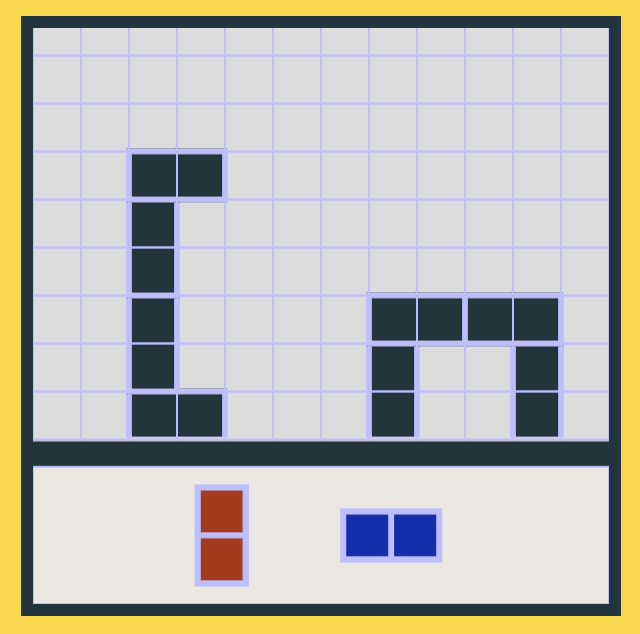
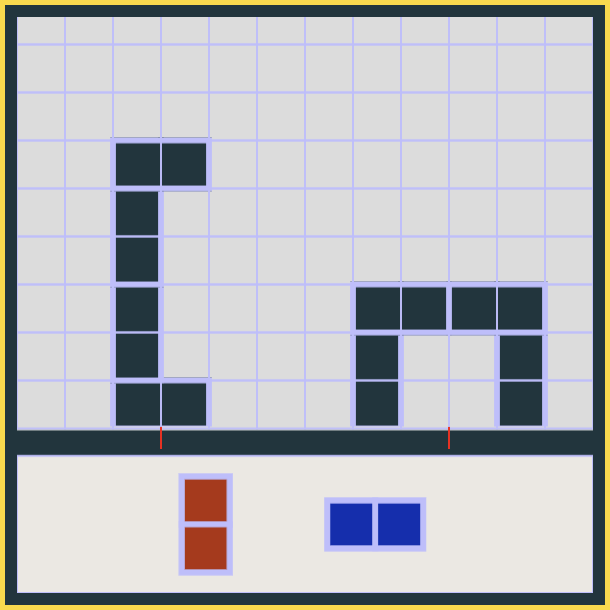
option to take out refering expression listing

Changed region(s): [[0.0, 0.0, 0.9967, 0.9967], [0.5295, 0.7787, 0.7164, 0.9033]]

diff --git a/behavioral_experiments/referring_expressions/js/jspsych-ca-label-ref-exp.js b/behavioral_experiments/referring_expressions/js/jspsych-ca-label-ref-exp.js
@@ -55,11 +55,17 @@ jsPsych.plugins["ca-label-ref-exp"] = (function () {
       messages: {
         type: jsPsych.plugins.parameterType.OBJECT,
         default: [],
+      },
+      collectRefExps: {
+        type: jsPsych.plugins.parameterType.BOOL,
+        default: false,
       }
     },
   };
 
   plugin.trial = function (display_element, trial) {
+
+    let flagged = false;
 
     window.currTrialNum += 1;
 
@@ -69,7 +75,11 @@ jsPsych.plugins["ca-label-ref-exp"] = (function () {
 
     var html_content = "";
 
-    html_content += '<p id="instruction"> For each message: </br>1) list all of the referring expressions (separated by commas) </br>2) count how many blocks (<img src = "../img/icons/block.png" class="ref-icon ref-icon-inline ref-icon-block">), towers (<img src = "../img/icons/tower.png" class="ref-icon ref-icon-inline">), and scenes (<img src = "../img/icons/scene.png" class="ref-icon ref-icon-inline">) are referred to</p>';
+    if(trial.collectRefExps){
+      html_content += '<p id="instruction"> For each message: </br>1) list all of the referring expressions (separated by commas) </br>2) count how many blocks (<img src = "../img/icons/block.png" class="ref-icon ref-icon-inline ref-icon-block">), towers (<img src = "../img/icons/tower.png" class="ref-icon ref-icon-inline">), and scenes (<img src = "../img/icons/scene.png" class="ref-icon ref-icon-inline">) are referred to</p>';
+    } else {
+      html_content += '<p id="instruction"> For each message, count the number of expressions referring to (<img src = "../img/icons/block.png" class="ref-icon ref-icon-inline ref-icon-block">), towers (<img src = "../img/icons/tower.png" class="ref-icon ref-icon-inline">), and scenes (<img src = "../img/icons/scene.png" class="ref-icon ref-icon-inline">).</p>';
+    };
     html_content += '<div class="row pt-1 env-row" id="ref-exp-env-row">';
     html_content += '<div class="col env-div stim-no-resize" id="stimulus-canvas"></div>';
     html_content += '<div class="col env-div" id="message-column">';
@@ -80,8 +90,9 @@ jsPsych.plugins["ca-label-ref-exp"] = (function () {
     html_content += '</div>';
     html_content += '</div>';
     html_content += '<div class="row pt-1" id="button-row">';
-    html_content += '<h5 id="trial-counter-center">Instructions '  + window.currTrialNum + ' of ' + window.totalTrials + '</h5>';
+    html_content += '<h5 id="trial-counter-center">'  + window.currTrialNum + ' of ' + window.totalTrials + '</h5>';
     html_content += '<button id="next-button" type="button" class="btn btn-primary">Next</button>';
+    html_content += '<button id="flag-button" type="button" class="btn btn-danger mr-3">Flag</button>';
     html_content += '</div>';
     html_content += '</div>';
 
@@ -133,30 +144,32 @@ jsPsych.plugins["ca-label-ref-exp"] = (function () {
       messageDiv.setAttribute("id", "message-" + i.toString());
       messageDiv.setAttribute("class", "col message-text-div");
 
-      // refExpDiv = document.createElement("div");
-      // refExpDiv.setAttribute("id", "ref-exps-div-" + i.toString());
-      // refExpDiv.setAttribute("class", "ref-exp-text-div");
-      refExpText = document.createElement("input");
-      refExpText.setAttribute("class", "ref-exp-input");
-      refExpText.setAttribute("autocomplete","off");
-      refExpText.setAttribute("type", "text");
-      refExpText.setAttribute("id", "ref-exps-list-" + i.toString());
-      refExpText.setAttribute("class", "ref-exp-list");
-      refExpText.setAttribute("cols", "50");
-      refExpText.setAttribute("size", "30");
-      refExpText.setAttribute("placeholder", "type referring expressions or highlight and press Return");
-      refExpText.appendChild(document.createTextNode(""));
+      if (trial.collectRefExps) {
+        // refExpDiv = document.createElement("div");
+        // refExpDiv.setAttribute("id", "ref-exps-div-" + i.toString());
+        // refExpDiv.setAttribute("class", "ref-exp-text-div");
+        refExpText = document.createElement("input");
+        refExpText.setAttribute("class", "ref-exp-input");
+        refExpText.setAttribute("autocomplete","off");
+        refExpText.setAttribute("type", "text");
+        refExpText.setAttribute("id", "ref-exps-list-" + i.toString());
+        refExpText.setAttribute("class", "ref-exp-list");
+        refExpText.setAttribute("cols", "50");
+        refExpText.setAttribute("size", "30");
+        refExpText.setAttribute("placeholder", "type referring expressions or highlight and press Return");
+        refExpText.appendChild(document.createTextNode(""));
+      };
 
       messageP = document.createElement("p");
       messageP.setAttribute("class", "message");
       messageP.appendChild(document.createTextNode(message));
       
       messageDiv.appendChild(messageP);
-      messageDiv.appendChild(refExpText);
+      if (trial.collectRefExps) {messageDiv.appendChild(refExpText)};
       messageRow.appendChild(messageDiv);
 
       trial.levels.forEach(level => {
-        newInput = createInput(level, i, cols=2);
+        newInput = createCounterInput(level, i, cols=2);
         messageRow.appendChild(newInput);
       });
 
@@ -184,8 +197,34 @@ jsPsych.plugins["ca-label-ref-exp"] = (function () {
 
     blockSetup(constructionTrial, showStimulus, showBuilding);
 
+    // show red tick marks
+    window.blockUniverse.p5stim.draw = () => {
+      
+      window.blockUniverse.p5stim.draw;
+      showMarker(window.blockUniverse.p5stim);
 
-    function createInput(level, msgNum, cols=20) {
+      function showMarker(p5stim) {
+        p5stim.push();
+        p5stim.stroke([255, 0, 0]);
+        p5stim.strokeWeight(1);
+        p5stim.line(
+          config.canvasWidth / (4/3),
+          config.canvasHeight - config.floorHeight,
+          config.canvasWidth / (4/3),
+          config.canvasHeight - config.floorHeight + 10
+        );
+        p5stim.line(
+          config.canvasWidth / 4,
+          config.canvasHeight - config.floorHeight,
+          config.canvasWidth / 4,
+          config.canvasHeight - config.floorHeight + 10
+        );
+        p5stim.pop();
+      }
+    };
+
+
+    function createCounterInput(level, msgNum, cols=20) {
 
       let newInput = document.createElement("input");
       newInput.setAttribute("id", "input-msg-" + msgNum.toString() + "-" + level);
@@ -213,6 +252,11 @@ jsPsych.plugins["ca-label-ref-exp"] = (function () {
 
     $("#next-button").click(() => {
       validateForm();
+    });
+
+    $("#flag-button").click(() => {
+      flagged = !flagged;
+      document.querySelector('#flag-button').innerText = flagged ? 'Unflag' : 'Flag';
     });
 
     let nWarnings = 0;
@@ -243,8 +287,10 @@ jsPsych.plugins["ca-label-ref-exp"] = (function () {
           messageResponse['counts'][level] = val;
 
           // ref exps
-          let instructionList = document.querySelector("#ref-exps-list-" + i.toString());
-          messageResponse['refExps'] = instructionList.value;
+          if (trial.collectRefExps) {
+            let instructionList = document.querySelector("#ref-exps-list-" + i.toString());
+            messageResponse['refExps'] = instructionList.value;
+          }
 
           // warning counter
           if(val != "0") {
@@ -259,8 +305,8 @@ jsPsych.plugins["ca-label-ref-exp"] = (function () {
       // console.log(nWarnings);
 
       if (nWarnings < 1) {
-        if (changes == 0) {
-          alert("It looks like you didn't record any referring expressions. Please enter how many blocks, towers, and scenes are referred to in each message.");
+        if (changes == 0 && !flagged) {
+          alert("It looks like you didn't record any referring expressions. Please enter how many blocks, towers, and scenes are referred to in each message. If the instruction look unusual, do your best to identify any referring expressions, then press the flag button and move on to the next trial.");
           nWarnings += 1;
           return false;
         }
@@ -286,8 +332,10 @@ jsPsych.plugins["ca-label-ref-exp"] = (function () {
     function controlHandler(event) {
       switch (event.keyCode) {
         case 13: // space: switch selected block
-          event.preventDefault(); //stop spacebar scrolling 
-          saveRefExp();
+          if (trial.collectRefExps) {
+            event.preventDefault(); //stop spacebar scrolling 
+            saveRefExp();
+          };
           break;
       };
     };

diff --git a/behavioral_experiments/referring_expressions/js/experimentConfig.js b/behavioral_experiments/referring_expressions/js/experimentConfig.js
@@ -9,9 +9,13 @@ expConfig = {
     "experimentParameters": { // parameters for the experiment.
       "setITISomewhere": 1000 // TODO: set somewhere?
     },
-    "sonaCompInfo":"<p>Thank you for participating in our study. It will take around <strong>5 minutes</strong> total to complete, including the time it takes to read these instructions. You will be paid $1.25 (around $15 per hour). You can perform this study as many times as you would like.</p><p>Note: We recommend maximizing your browser window to ensure everything is displayed correctly. Please do not refresh the page or press the back button.</p>",
-    "mainInstructions":['<p>In this study we are asking you to help us understand how people use language to talk about block towers like those below. In a previous study, participants sent instructions to each other describing how to build towers like these. They described 12 scenes of two block towers each. In this study you will see the series of instructions sent by one participant. Each set of instructions consists of several messages, which contain words that refer to blocks (e.g. "place a red block") and sometimes to larger tower structures (e.g. "build a big L shape"). On rare occasions, they may have even referred to an entire scene (e.g. "this time it\'s CL"). For each message, please identify these references, and determine how many entities of each type (block, tower, and scene) are referred to in the message. We will explain how to record these on the next page.</p><img src="../img/scene_demo.png" style="width:300px;">',
-    '<p>First you will list the phrases referring to blocks, towers, and scenes. Here we only want you to record the "noun phrases"- the words referring to things to be placed. This means you should omit verbs (e.g. "place", "put") as well as information about where to place them (e.g. "on top of the blue block"). To record these phrases, copy them into the box below the message, separated by commas. To make it easier for you, you can also copy a phrase by highlighting it with your cursor and pressing the Return key.</p><p>After recording these phrases, please record the quantity of each entity referred to in the boxes on the right.</p><p>Please note that some messages will contain references of multiple kinds e.g. "start building an L by placing two blue blocks on the ground" refers to two 2 blocks ("two blue blocks") and 1 tower ("an L"). They may also contain shorthand (e.g. "blk" for "block" or "rd" for "red block"). Please do your best to count all references to the block(s)/ tower(s) being placed. Please do not count previously placed blocks mentioned as a location (e.g. "place a red block on top of the left-most blue block").</p>',
+    "ProlificCompInfo":"<p>Thank you for participating in our study. It will take around <strong>6 minutes</strong> total to complete, including the time it takes to read these instructions. You will be paid $1.55 (around $15.50 per hour). You can perform this study as many times as you would like.</p><p>Note: We recommend maximizing your browser window to ensure everything is displayed correctly. Please do not refresh the page or press the back button.</p>",
+    // "mainInstructions":['<p>In this study we are asking you to help us understand how people use language to talk about block towers like those below. In a previous study, participants sent instructions to each other describing how to build towers like these. They described 12 scenes of two block towers each. In this study you will see the sequence of instructions sent by one participant. Each set of instructions consists of several messages, which contain words that refer to blocks (e.g. "place a red block") and sometimes to larger tower structures (e.g. "build a big L shape"). On rare occasions, they may have even referred to an entire scene (e.g. "this time it\'s CL"). For each message, please identify these references, and determine how many entities of each type (block, tower, and scene) are referred to in the message. We will explain how to record these on the next page.</p><img src="../img/scene_demo.png" style="width:300px;">',
+    // '<p>First you will list the phrases referring to blocks, towers, and scenes. Here we only want you to record the "noun phrases"- the words referring to things to be placed. This means you should omit verbs (e.g. "place", "put") as well as information about where to place them (e.g. "on top of the blue block"). To record these phrases, copy them into the box below the message, separated by commas. To make it easier for you, you can also copy a phrase by highlighting it with your cursor and pressing the Return key.</p><p>After recording these phrases, please record the quantity of each entity referred to in the boxes on the right.</p><p>Please note that some messages will contain references of multiple kinds e.g. "start building an L by placing two blue blocks on the ground" refers to two 2 blocks ("two blue blocks") and 1 tower ("an L"). They may also contain shorthand (e.g. "blk" for "block" or "rd" for "red block"). Please do your best to count all references to the block(s)/ tower(s) being placed. Please do not count previously placed blocks mentioned as a location (e.g. "place a red block on top of the left-most blue block").</p>',
+    // '<p>Ready? Press Next to start on the first of 12 sets of messages.</p>'
+    // ], // identify ref exps
+    "mainInstructions":['<p>In this study we are asking you to help us understand how people use language to talk about block towers like those below. In a previous study, participants sent instructions to each other describing how to build towers like these. They described 12 scenes of two block towers each. In this study you will see the sequence of instructions sent by one participant. Each set of instructions consists of several messages, which contain words that refer to <b>blocks</b> (e.g. "place a red block") and sometimes to larger <b>tower</b> structures (e.g. "build a big L shape"). On rare occasions, they may have even referred to an entire <b>scene</b> (e.g. "this time it\'s CL"). Your task is to determine how many entities of each type (block, tower, and scene) are referred to in each message.</p><img src="../img/scene_demo.png" style="width:300px;">',
+    '<p>Each message will be displayed with three boxes to the right- one for blocks, one for towers, and one for scenes. Please record the quantity of each entity referred to in these boxes.</p><p>Please note that some messages will contain references of multiple kinds e.g. "start building an L by placing two blue blocks on the ground" refers to two 2 blocks ("two blue blocks") and 1 tower ("an L"). They may also contain shorthand (e.g. "blk" for "block" or "rd" for "red block"). Please do your best to count all references to the block(s)/ tower(s) being placed.</p><p>Participants might sometimes talk about locations, including the red tick marks on the ground or previously placed blocks or towers. Please <em>do not count previously placed blocks or towers mentioned as a location</em> (e.g. "place a red block on top of the left-most blue block").</p>',
     '<p>Ready? Press Next to start on the first of 12 sets of messages.</p>'
     ],
     "phaseInstructions":[

diff --git a/behavioral_experiments/referring_expressions/js/experimentSetup.js b/behavioral_experiments/referring_expressions/js/experimentSetup.js
@@ -80,7 +80,7 @@ function setupExperiment() {
 
         // append learning trials to (empty) trialList
         trialList = _.concat(trialList,
-                             phaseInstructions,
+                            //  phaseInstructions,
                              phaseTrials);
 
         // forward trial list to next setup function
@@ -151,7 +151,11 @@ function setupExperiment() {
             var instructionPages = []
 
             if (expConfig.sonaCompInfo && studyLocation == 'SONA'){
-                instructionPages = _.concat(instructionPages, expConfig.sonaCompensation);
+                instructionPages = _.concat(instructionPages, expConfig.sonaCompInfo);
+            };
+
+            if (expConfig.ProlificCompInfo && studyLocation == 'Prolific'){
+                instructionPages = _.concat(instructionPages, expConfig.ProlificCompInfo);
             };
 
             if (expConfig.mainInstructions){

diff --git a/behavioral_experiments/referring_expressions/css/experiment.css b/behavioral_experiments/referring_expressions/css/experiment.css
@@ -83,7 +83,7 @@ img#ref-icon-scene {
 }
 
 
-#next-button{
+#next-button, #flag-button{
     float: right;
     margin-top: 10px;
 }
@@ -162,6 +162,18 @@ input.ref-exp-input{
     margin: auto 3px;
     height: 30px;
     width: 36px;
+}
+
+/* Chrome, Safari, Edge, Opera */
+input.ref-exp-input::-webkit-outer-spin-button,
+input.ref-exp-input::-webkit-inner-spin-button {
+  -webkit-appearance: none;
+  margin: 0;
+}
+
+/* Firefox */
+input.ref-exp-input[type=number] {
+  -moz-appearance: textfield;
 }
 
 div.message-row{
